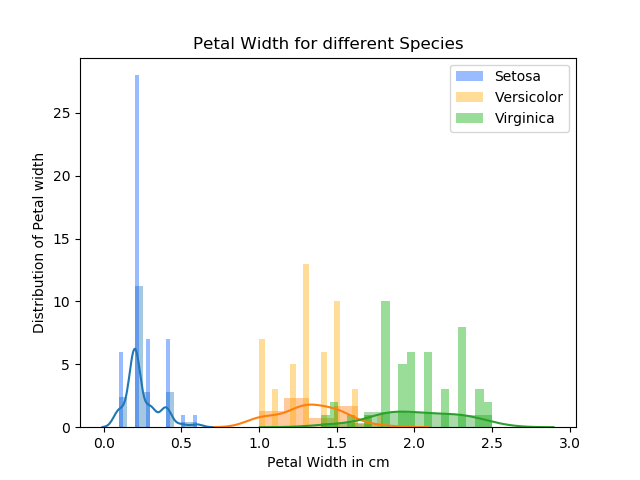
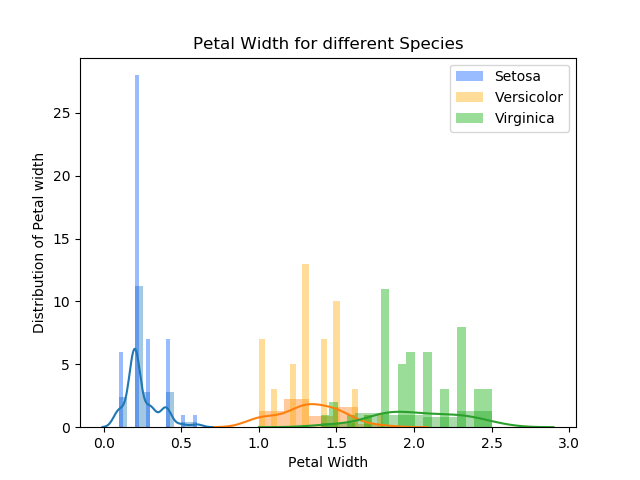
Project File

diff --git a/Analyse.py b/Analyse.py
@@ -144,7 +144,7 @@ plt.title("Sepal Length for different Species")
 plt.xlabel("Sepal Length") 
 plt.ylabel("Species",fontsize = 12, position = (0,1.01), color = "#0000FF", rotation = 0,) 
 plt.savefig("Sepal length vs Species.png") 
- 
+
 
 # Scatter plot for Sepal width for every species
 sns.scatterplot(x='sepal_width', y='species', data=df, hue='species')
@@ -168,6 +168,40 @@ plt.title("Petal Width for different Species")
 plt.xlabel("Petal Width")
 plt.ylabel("Species",fontsize = 12, position = (0,1.01), color = "#0000FF", rotation = 0,)
 plt.savefig("Petal width vs Species.png")
+
+
+
+# Subplots Petal Length Petal Width
+# found things on website "https://jovianlin.io/data-visualization-seaborn-part-2/"
+fig = plt.figure(figsize=(15,5))
+title = fig.suptitle("Petal Length Petal Witdh", fontsize = 14)
+fig.subplots_adjust(top = 0.85, wspace = 0.3)
+# Subplot Petal Length
+ax1 = fig.add_subplot(1,2,1)
+ax1.set_title("Petal Length")
+sns.distplot(setosa["petal_length"],ax=ax1)
+sns.distplot(setosa["petal_length"],bins=20, kde=False, color='#0055FF', label='Setosa',ax=ax1)
+sns.distplot(versicolor["petal_length"],ax=ax1)
+sns.distplot(versicolor["petal_length"],bins=20, kde=False,color= '#FFAA00', label='Versicolor',ax=ax1)
+sns.distplot(virginica["petal_length"],ax=ax1)
+sns.distplot(virginica["petal_length"],bins=20, kde=False,color= '#00AA00', label='Virginica',ax=ax1)
+ax1.set_xlabel("Petal Length")
+ax1.set_ylabel("Distribution of Petal length")
+plt.legend()
+# Subplot Petal Width
+ax2 = fig.add_subplot(1,2,2)
+ax2.set_title("Petal Width")
+sns.distplot(setosa["petal_width"],ax=ax2)
+sns.distplot(setosa["petal_width"],bins=20, kde=False, color='#0055FF', label='Setosa',ax=ax2)
+sns.distplot(versicolor["petal_width"],ax=ax2)
+sns.distplot(versicolor["petal_width"],bins=20, kde=False,color= '#FFAA00', label='Versicolor',ax=ax2)
+sns.distplot(virginica["petal_width"],ax=ax2)
+sns.distplot(virginica["petal_width"],bins=20, kde=False,color= '#00AA00', label='Virginica',ax=ax2)
+ax2.set_xlabel("Petal Width")
+ax2.set_ylabel("Distribution of Petal width")
+plt.legend()
+plt.savefig("Subplot_Petal.png")
+
 
 
 # Create three new dataframes "setosastats", "versicolorstats" and "virginicastats" for the Iris Flower statistics

diff --git a/README.md b/README.md
@@ -5,27 +5,58 @@ Research and Investigation of the "Fisher Iris Data Set"
 
 ## Analsye the "Fisher's Iris Data Set"
 ### Project Description
-The Iris flower data set is a multivariate data set from by the British and biologist Ronald Fisher. The Data set was produced in 1936. The data set examine three types of Iris flowers Iris setosa, Iris versicolor and Iris virginica. In the data set four variables Sepal length, Sepal width, Petal length and Petal width will be examined.
+The Iris flower data set is a multivariate data set from the British biologist Ronald Fisher. The Data set was produced in 1936. The data set consist 50 samples for each of the three types of Iris flowers Iris Setosa, Iris Versicolor and Iris Virginica. In the data set four features Sepal length, Sepal width, Petal length and Petal width will be examined for each species. 
 
 ![Iris Flower image](IrisFlowerimage.png)
 
+### Project Objective
+The objective in this project is to classify a given Iris flower into the three species Iris Setosa, Iris Versicolor and Iris Virginica.
+
+### Project Procedure
+Using Python as a tool for investigating the Iris flower data set.
+1. Import Python Libraries in the project
+    - import pandas as pd
+    - import matplotlib.pyplot as plt
+    - import seaborn as sns
+
+2. Download the Iris data set from the Internet
+    - [Download](https://raw.githubusercontent.com/uiuc-cse/data-fa14/gh-pages/data/iris.csv"To Download)
+
+3. Save the data set to a csv file "Fishers_Iris_Dataset.csv"
+4. Save the data set to a text File "Fishers_Iris_Dataset.txt"
+5. Split the data set in to the three species
+6. Plot four features for each species in to Histograms
+7. Plot the four features for each species in to Scatter plots
+8. Save the statistical sumery for each species in to a text file "Projectsummery.txt"
 
 
-### Analysis
+### Analytics
 The best way to classify the three types of Iris flowers is by looking at the plots and the “Projectsummery.txt” file for each variable (Sepal length, Sepal width, Petal length, Petal width).
-By looking at the histogram for the petal length and petal width we can see a separation between Iris flower Setosa and the other two Iris Flowers Versicolor and Virginica. The Iris Flower Setosa has the shortest Petal length and Petal width. Setosa has a Petal length below of 2 with a majority of flowers have a Petal length of 1.5. To distinguish between Versicolor and Virginica is more difficult because it is more overlap between the two flowers. 
+By looking at the histogram for the petal length and petal width we can see a separation between Iris flower Setosa and the other two Iris Flowers Versicolor and Virginica. The Iris Flower Setosa has the shortest Petal length and Petal width. Setosa has a Petal length below 2 with a majority of flowers have a Petal length of 1.5. To distinguish between Versicolor and Virginica is more difficult because it has some overlaps between the two flowers. If the Petal length is over 5.2 it can be assumed it will be Virginica. When the Petal length is below 4.5 the flower will be Versicolor. A Petal length between 4.5 and 5.2 it can be either Versicolor or Virginica. 
 
-![Histogram Petal length](HistPetallength.png)
 
+![Histogram Petal length Petal Width](Subplot_Petal.png)
+
+To distinguish between Iris flower Versicolor and Virginica we can use the scatter plot “Petal Length vs Petal Width”. Looking at the values on the scatter plot for the Petal Length between the 4.5 and 5.2 we can narrow the investigation. If the Petal width is greater then 1.6 it is to 92% the Iris flower Virginica. If the Petal width is smaller then 1.6 it is to 94% the Iris flower Verisolor. 
+
+![Scatter plot Petal Length Petal Width](Petallengthwidth.png)
+
+
+
+### Advantage of Python verses Excel,
+Python doesn’t require any software license fees. It can run on Windows as well as on Linux based operation systems. Python can run on embedded systems or on small computers like the Raspberry Pi. For data analytics with Python they are plenty of open source libraries available. If you have a good understanding of Python it can be used for cloud computing, artificial intelligence application (AI), Internet of the things (IoT) as well in the industry. 
 
 
 ## References 
+### Analyse References
+Project Reference   
+[Analytics](https://medium.com/analytics-vidhya/exploratory-data-analysis-uni-variate-analysis-of-iris-data-set-690c87a5cd40"To the site")
 
 
-### Wikipedia website
+Wikipedia website   
 [Iris Flower Data Set](https://en.wikipedia.org/wiki/Iris_flower_data_set"To the site)
 
-### Iris Data Set CSV file download
+Iris Data Set CSV file download  
 [Download](https://raw.githubusercontent.com/uiuc-cse/data-fa14/gh-pages/data/iris.csv"To Download)
 
 
